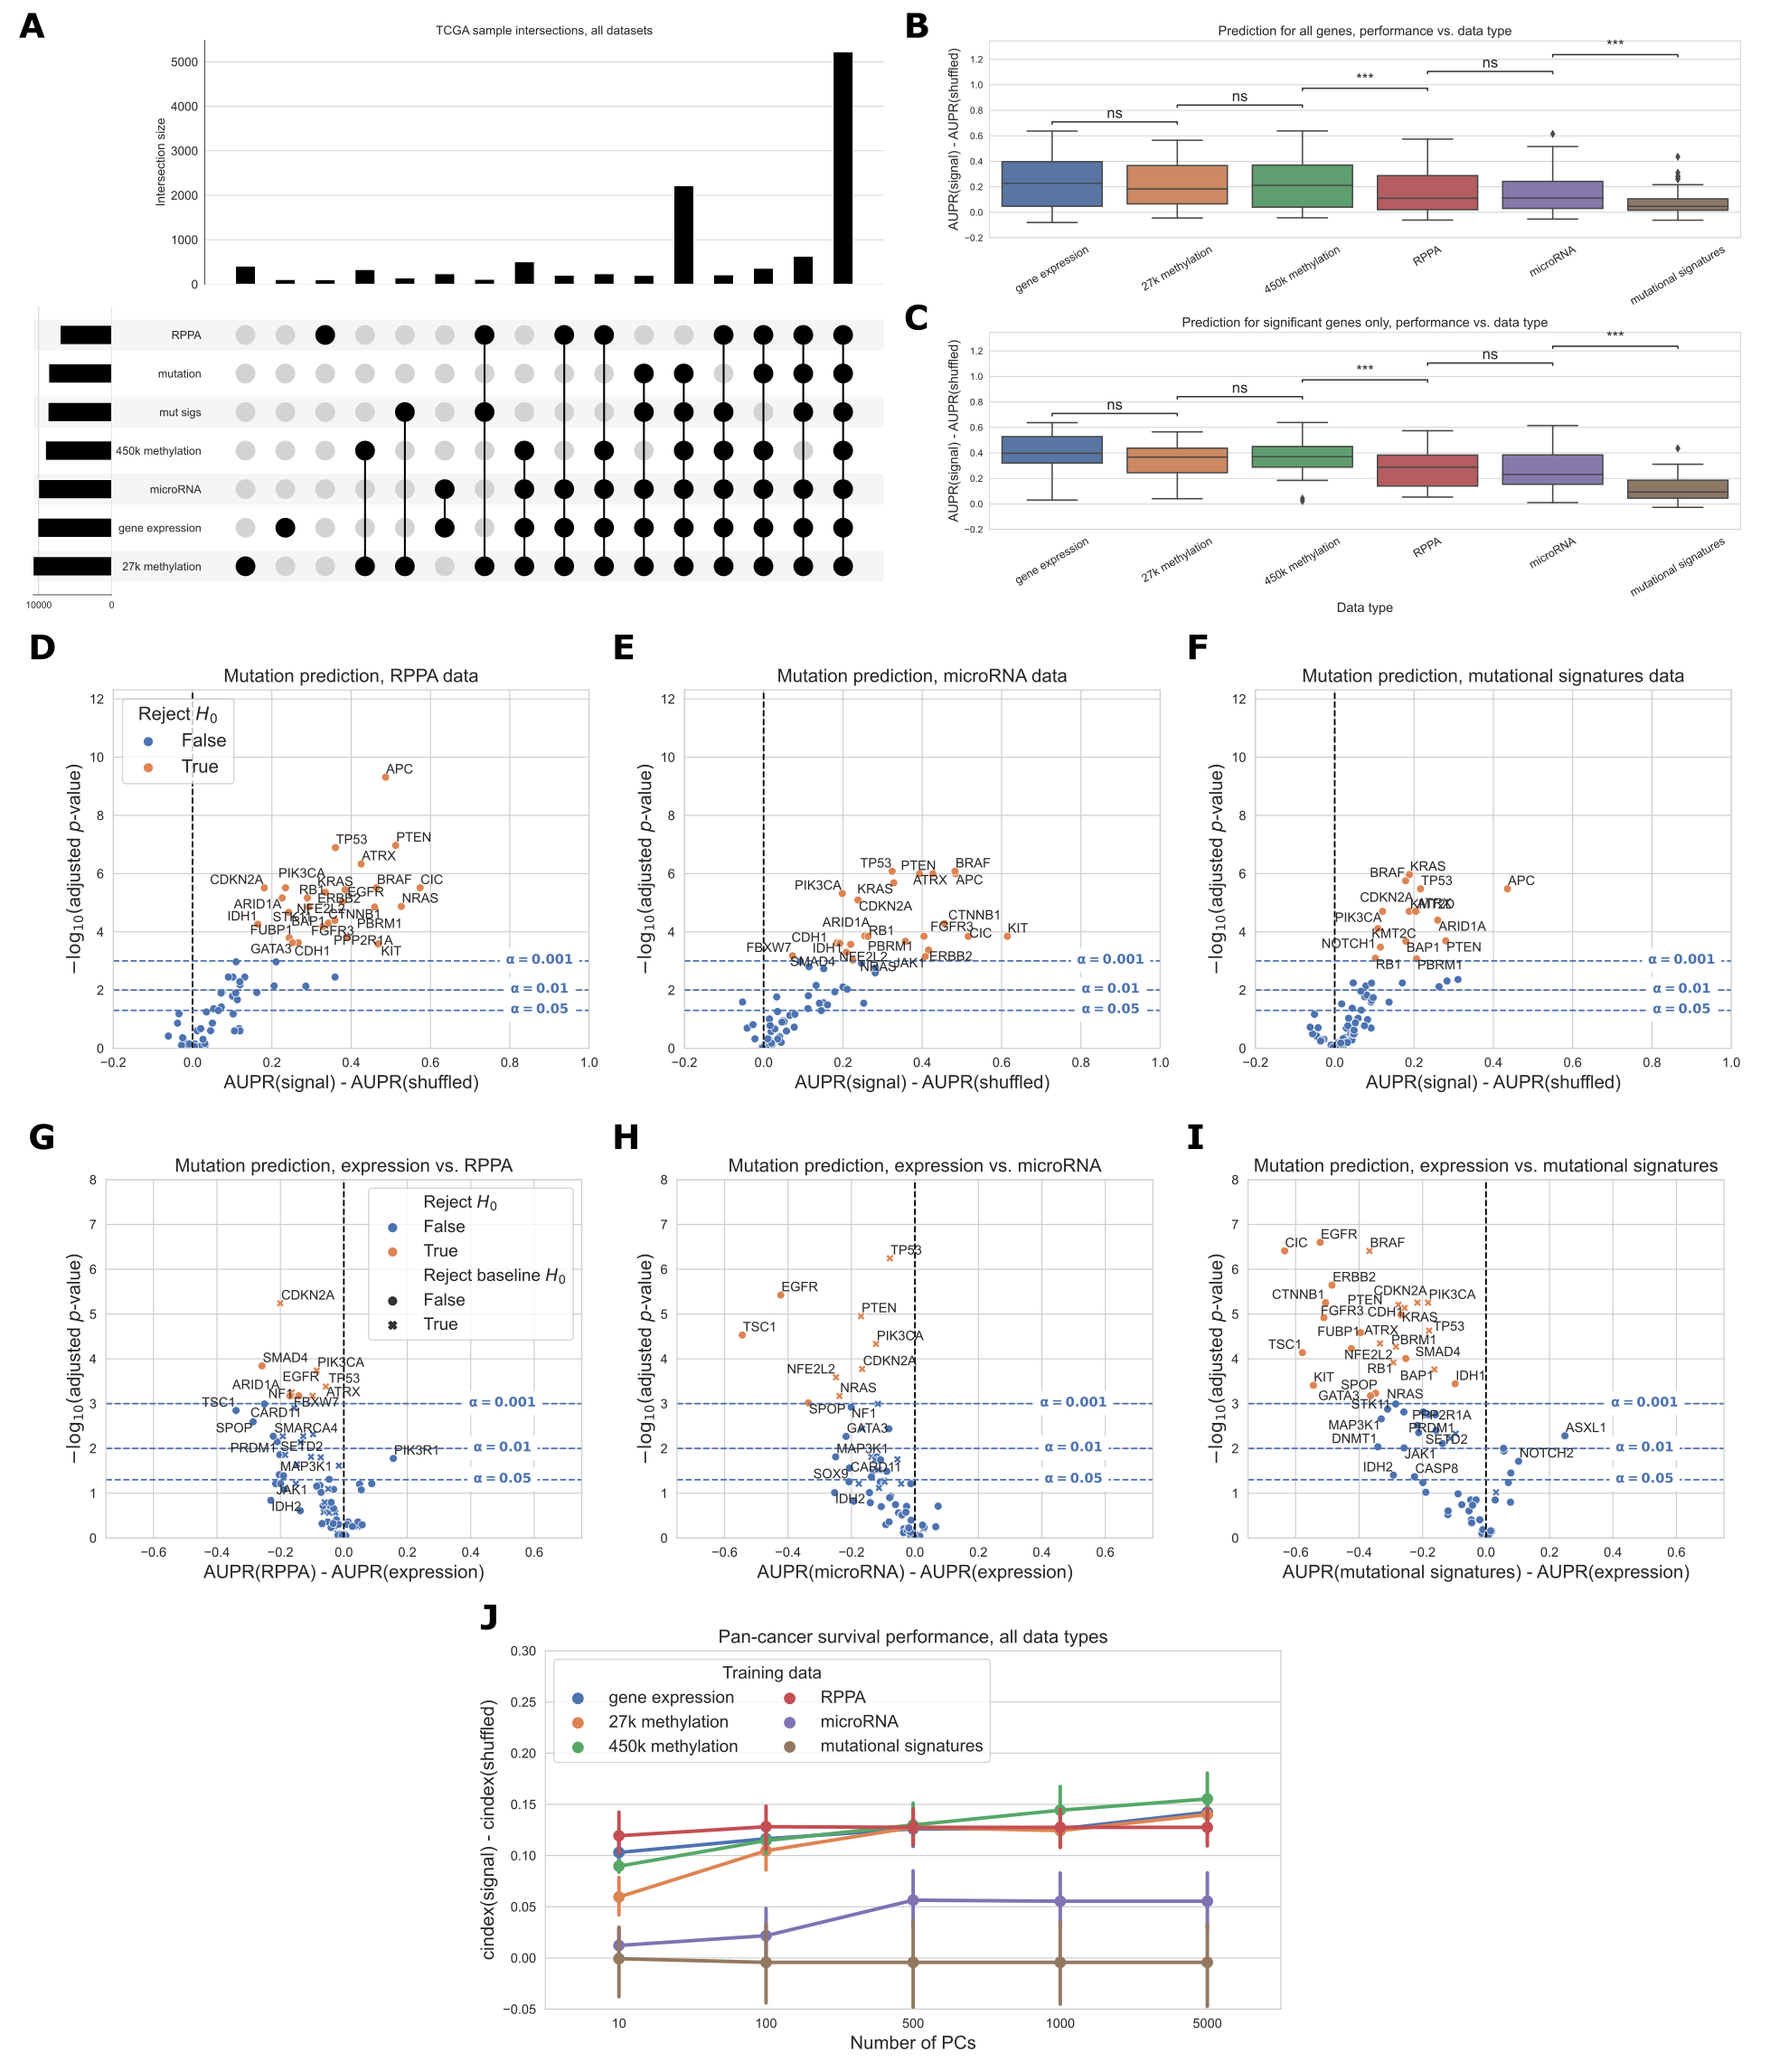
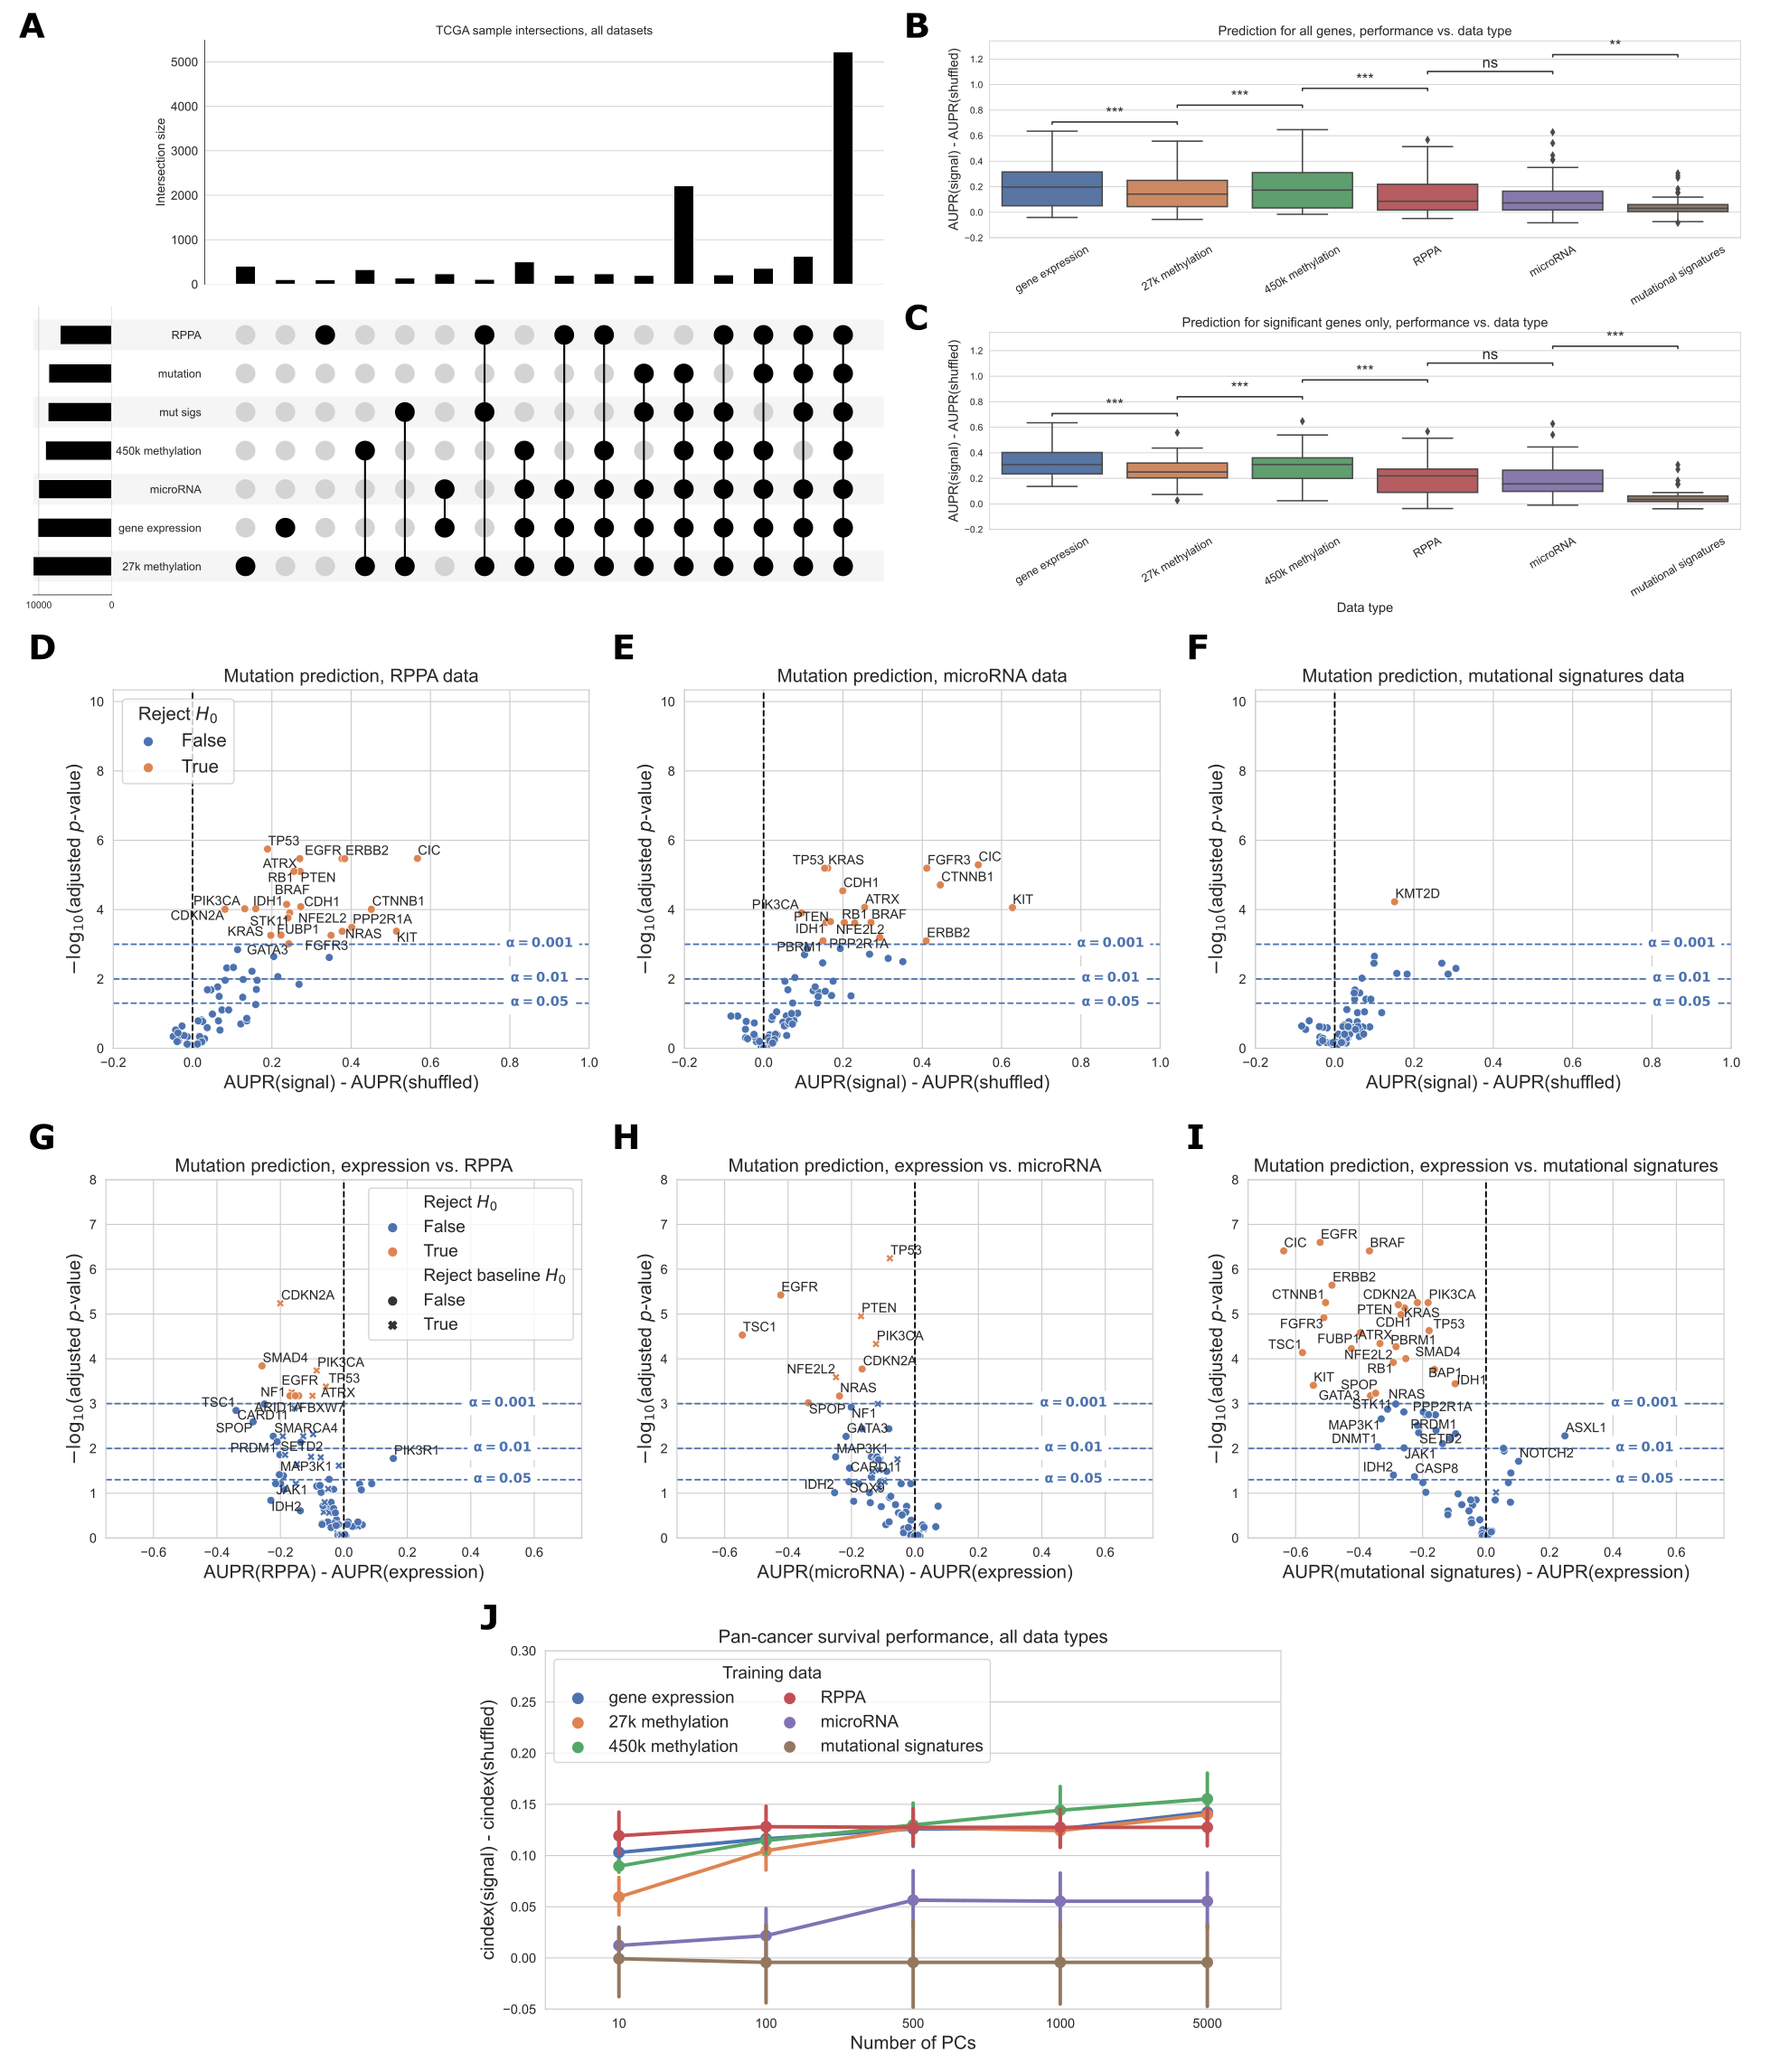
update multi-panel all data figure

diff --git a/content/04.results.md b/content/04.results.md
@@ -112,8 +112,8 @@ The data types with the most missing samples were RPPA data (2,215 samples that 
 Summarized over all genes in the Vogelstein et al. dataset, we observed that gene expression and both methylation datasets tended to produce similar quality predictions, and these were significantly better than the remaining data types (Figure {@fig:all_data}B).
 For the set of genes having at least one significant predictor (i.e. "well-predicted" genes), median performance using gene expression was slightly higher than for the methylation data types, although this difference was not statistically significant (Figure {@fig:all_data}C).
 
-On the individual gene level, mutations in 26/75 genes were significantly predictable from RPPA data relative to the permuted baseline, compared to 23/75 genes from microRNA data and 15/75 genes from mutational signatures data (Figure {@fig:all_data}D-F).
-For the remaining data types on this smaller set of samples, 35/75 genes outperformed the baseline for gene expression data, 34/75 for 27k methylation, and 31/75 for 450k methylation.
+On the individual gene level, mutations in 22/75 genes were significantly predictable from RPPA data relative to the permuted baseline, compared to 17/75 genes from microRNA data and 1/75 genes from mutational signatures data (Figure {@fig:all_data}D-F).
+For the remaining data types on this smaller set of samples, 35/75 genes outperformed the baseline for gene expression data, 25/75 for 27k methylation, and 32/75 for 450k methylation.
 Compared to the methylation experiments (Figure {@fig:methylation}), we observed slightly fewer "well-predicted" genes for the expression and methylation datasets here (likely due to the considerably smaller sample size) but relative performance was comparable (Supplementary Figure {@fig:all_volcano_me}).
 Direct comparisons between each added data type and gene expression data showed that RPPA, microRNA and mutational signatures data generally provide similar or worse performance than the remaining data types (Figure {@fig:all_data}G-I).
 
